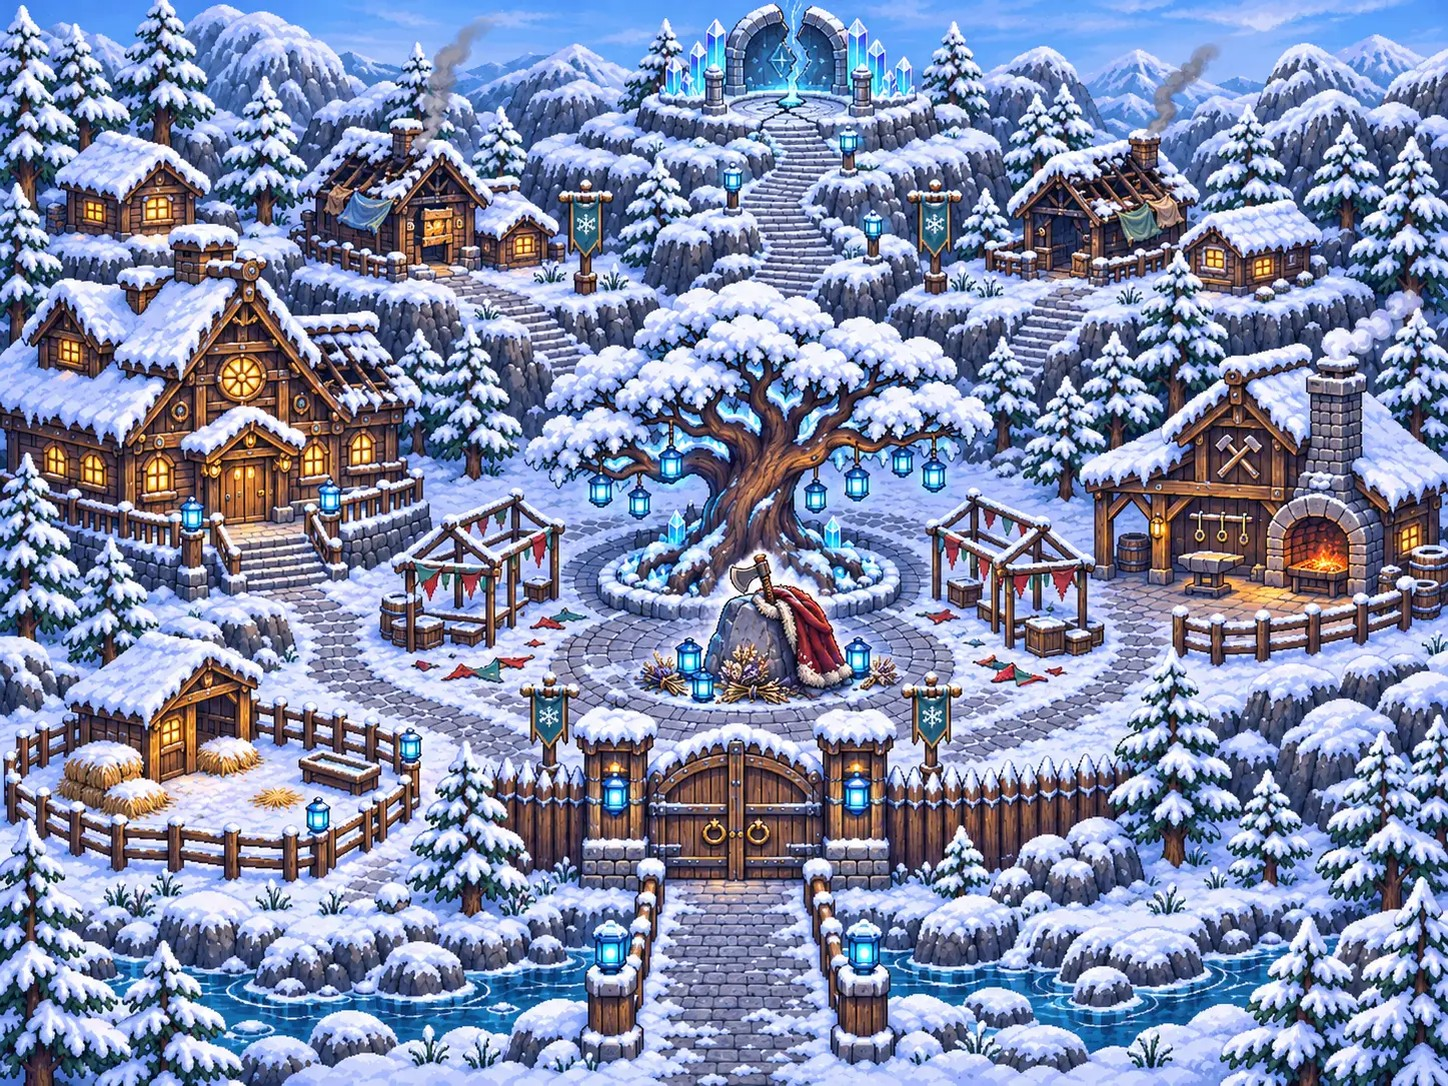
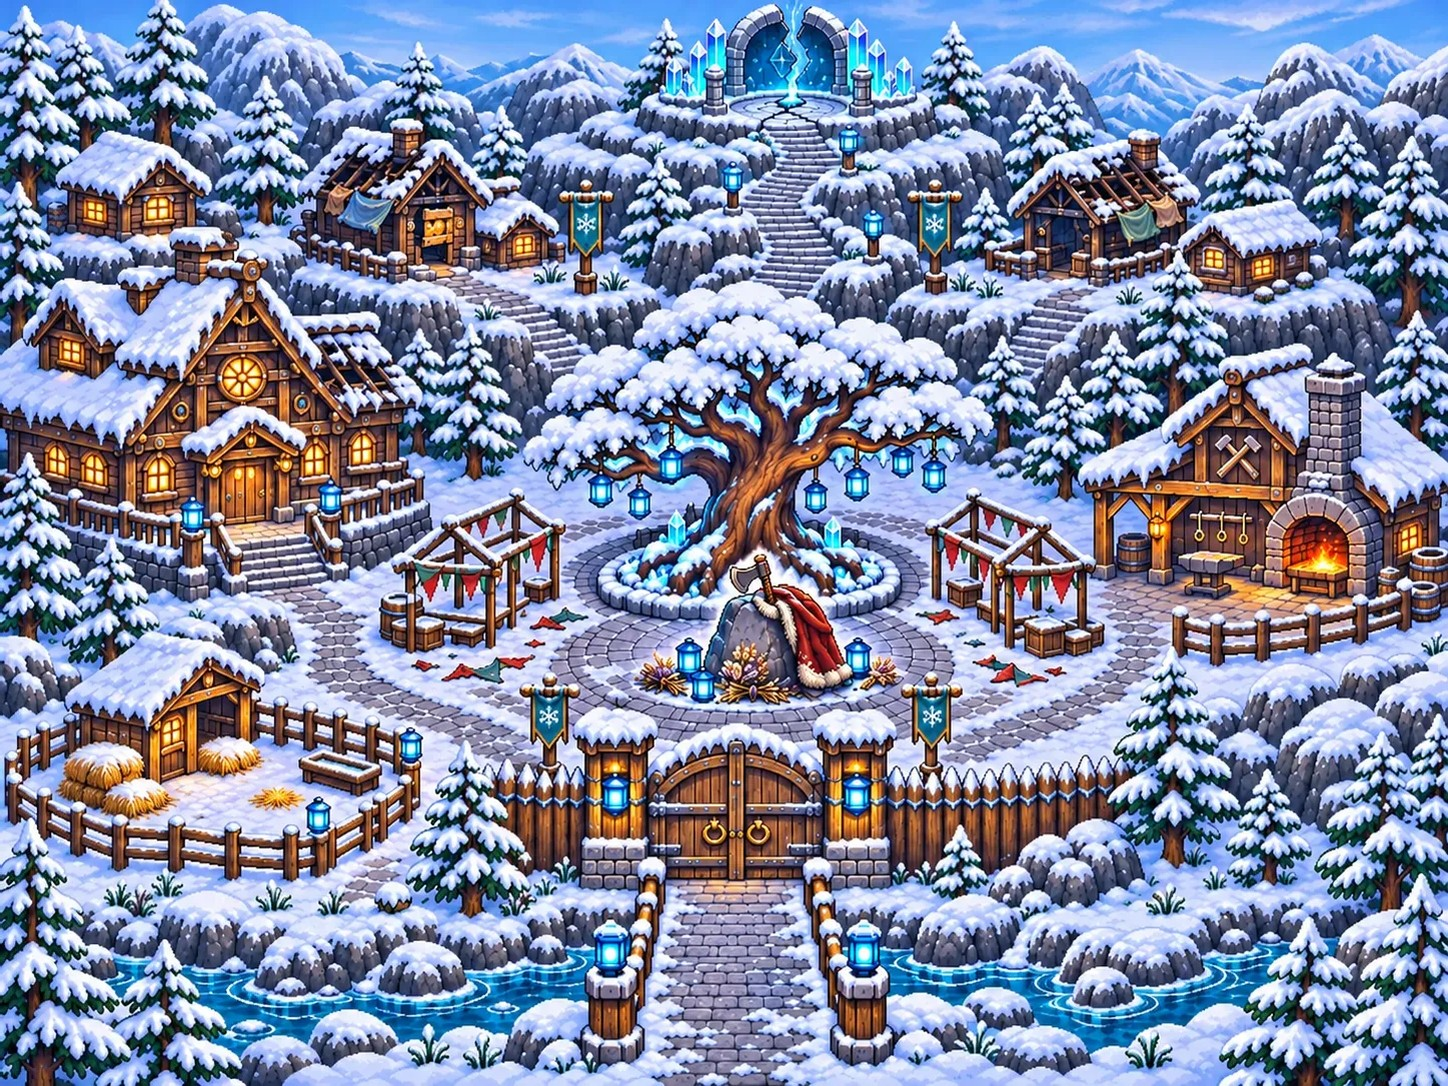
Sir Bacon fica no chiqueiro depois do Cap. 2; mapa da manha sem fumaca pintada

diff --git a/vila_motor.js b/vila_motor.js
@@ -91,7 +91,7 @@ function aplicaManha(){if(manhaAplicada)return;manhaAplicada=true;festAplicado=f
   MAPA_MANHA.onload=()=>{MAPA.src=MAPA_MANHA.src;
     for(const f of FR){const c=document.createElement('canvas');c.width=f.w;c.height=f.h;const g=c.getContext('2d');
       const faz=()=>{g.clearRect(0,0,f.w,f.h);g.drawImage(f.i0||f.i,0,0,f.w,f.h);g.globalCompositeOperation='source-in';g.drawImage(MAPA_MANHA,f.x,f.y,f.w,f.h,0,0,f.w,f.h);g.globalCompositeOperation='source-over';f.i0=f.i0||f.i;f.i=c;};
-      if((f.i0||f.i).complete)faz();else (f.i0||f.i).addEventListener('load',faz,{once:true});}};MAPA_MANHA.src='assets/vila/mapa_manha.jpg';}
+      if((f.i0||f.i).complete)faz();else (f.i0||f.i).addEventListener('load',faz,{once:true});}};MAPA_MANHA.src='assets/vila/mapa_manha.jpg?v=2';}
 // os passos da Parte E, na ordem: adeus -> lanterna -> cristais -> partida
 const PART_PASSOS=['adeus','lanterna','cristais','partida'];
 const partFeito=k=>!!((JOGO.cap2&&JOGO.cap2.e)||{})[k];
@@ -394,7 +394,8 @@ let oincT=rnd(2,5);
 function oinc(v){const dh=Math.hypot(hero.x-bacon.x,hero.y-bacon.y);som(OINC[(Math.random()*OINC.length)|0],clamp(1-dh/220,0,1)*(v||.7));}
 function baconPasso(dt){
   if(!BAC)return;
-  if(JOGO.cap2&&JOGO.cap2.baconTime&&!bacon.segue){bacon.segue=true;bacon.vaiSeguir=0;bacon.x=hero.x-40;bacon.y=hero.y+6;bacon.pts=[];}   // fim do Cap. 2: o Sir Bacon segue o time
+  // (2026-11-21, pedido: 'nao e para o porco ficar me seguindo'): depois do fim do Cap. 2 ele fica no chiqueiro, como antes
+  if(bacon.segue&&!bacon.vaiSeguir){bacon.segue=false;bacon.x=250;bacon.y=800;bacon.pts=[];}
   oincT-=dt;if(oincT<=0){oincT=bacon.acao==='dorme'?rnd(6,10):rnd(3,8);oinc(bacon.acao==='dorme'?.25:.6);}
   // trilha do Jux (a cada 3 px, e todo quadro durante o pulo)
   const u=trilha[trilha.length-1];
@@ -1156,7 +1157,7 @@ function nomePonto(id){if(NOMES[id])return NOMES[id];if(id.startsWith('tes_')){c
   if(id.startsWith('col_')){const c=COLETAS.find(q=>'col_'+q.id===id);return c?ITENS[c.item].nome:'Algo';}return '';}
 // quem tem corpo agora (so quem esta visivel no mapa): elipse nos pes; so bloqueia chegando MAIS perto (nunca prende o Jux)
 function corposNpc(){if(!NA_VILA)return [];if(emAtaque()){const L=(JOGO.cap2&&JOGO.cap2.lutas)||{},o=[vovo];if(L.atq_2)o.push(borin);for(const n of ANDARILHOS)if(ATQ_SALVO[n.id]&&L[ATQ_SALVO[n.id]])o.push(n);return o;}
-  const o=[tico,vovo,borin,...ANDARILHOS,...FIGURANTES];if(!(JOGO.cap2&&JOGO.cap2.baconTime))o.push(bacon);return o.filter(n=>n&&isFinite(n.x));}
+  const o=[tico,vovo,borin,...ANDARILHOS,...FIGURANTES];o.push(bacon);return o.filter(n=>n&&isFinite(n.x));}
 function npcBloqueia(x,y,x0,y0){for(const n of corposNpc()){const rx=n===bacon?11:8,ry=5,d=((x-n.x)/rx)**2+((y-n.y)/ry)**2;
   if(d<1&&d<((x0-n.x)/rx)**2+((y0-n.y)/ry)**2)return n;}return null;}
 function pontoPerto(){atqPontosPasso();MEMORIAL.r=emManha()?40:0;let m=null,md=1e9;for(const p of V.pontos){if(emAtaque()&&!atqPode(p.id))continue;const d=Math.hypot(hero.x-p.x,hero.y-p.y);if(d<p.r&&d<md){m=p;md=d;}}return m;}
@@ -1414,7 +1415,7 @@ const IMG_ADEUS=imgsFilme(CENAS_ADEUS.map(imgPart)),IMG_CRISTAIS=imgsFilme(CENAS
 function manhaSeguinte(){noiteFade={t:0,virou:false,txt:'Na manhã seguinte…',vira:()=>{JOGO.cap2.fase='manha';JOGO.cap2.e={};salvaJogo();aplicaManha();hero.x=722;hero.y=716;hero.olha='cima';},
   fim:()=>abreFala('manha_chega')};hero.alvo=null;hero.pontoAlvo=null;}
 function fimCapitulo2(){noiteFade={t:0,virou:false,k:1.8,txt:'Fim do Capítulo 2 — O festival da Rainha do Inverno',txt2:'Capítulo 3: em breve',vira:()=>{JOGO.cap2.fase='fim';JOGO.cap2.baconTime=true;salvaJogo();
-    bacon.segue=true;bacon.vaiSeguir=0;bacon.x=hero.x-40;bacon.y=hero.y+6;bacon.pts=[];hero.x=722;hero.y=700;hero.olha='baixo';},fim:()=>aviso('O Sir Bacon agora segue o time. Obrigado por jogar o Capítulo 2!','#ffe27a')};}
+    hero.x=722;hero.y=700;hero.olha='baixo';},fim:()=>aviso('Obrigado por jogar o Capítulo 2!','#ffe27a')};}
 // a lanterna do Tico: no alto do altar, depois do adeus
 function ticoAltar(){fala={linhas:FALAS.manha_tico_altar,i:0,letras:0,fim:()=>{daItem('lanterna_halvard',1);partMarca('lanterna');aviso('Você recebeu a Lanterna do Halvard! (acessório)','#9fe8ff');}};hero.alvo=null;hero.pontoAlvo=null;som(SOM.ui_vez,.5);}
 // o altar na vila em ataque: com as 3 lutas feitas (e o Capitulo 1 completo), a cutscene e a luta; depois de perder, so a luta

diff --git a/pico.html b/pico.html
@@ -53,7 +53,7 @@ canvas{width:min(100vw,177.78vh);height:auto;aspect-ratio:16/9;touch-action:none
 <script src="vila_retratos.js?v=1795117438"></script>
 <script src="vila_npc_halvard.js?v=1795117438"></script>
 <script src="vila_npc_bino.js?v=1795117438"></script>
-<script src="vila_motor.js?v=1795249000"></script>
+<script src="vila_motor.js?v=1795249400"></script>
 <script src="tela_cheia.js?v=1795247600"></script>
 </body>
 </html>

diff --git a/trilha.html b/trilha.html
@@ -48,7 +48,7 @@ canvas{width:min(100vw,177.78vh);height:auto;aspect-ratio:16/9;touch-action:none
 <script src="vila_retratos.js?v=1795117438"></script>
 <script src="vila_npc_halvard.js?v=1795117438"></script>
 <script src="vila_npc_bino.js?v=1795117438"></script>
-<script src="vila_motor.js?v=1795249000"></script>
+<script src="vila_motor.js?v=1795249400"></script>
 <script src="tela_cheia.js?v=1795247600"></script>
 </body>
 </html>

diff --git a/vale.html b/vale.html
@@ -49,7 +49,7 @@ canvas{width:min(100vw,177.78vh);height:auto;aspect-ratio:16/9;touch-action:none
 <script src="vila_retratos.js?v=1795117438"></script>
 <script src="vila_npc_halvard.js?v=1795117438"></script>
 <script src="vila_npc_bino.js?v=1795117438"></script>
-<script src="vila_motor.js?v=1795249000"></script>
+<script src="vila_motor.js?v=1795249400"></script>
 <script src="tela_cheia.js?v=1795247600"></script>
 </body>
 </html>

diff --git a/garganta.html b/garganta.html
@@ -54,7 +54,7 @@ canvas{width:min(100vw,177.78vh);height:auto;aspect-ratio:16/9;touch-action:none
 <script src="garganta_bandeira.js?v=1795117438"></script>
 <script src="vila_fogo.js?v=1795117438"></script>
 <script src="vida_garganta.js?v=1795117438"></script>
-<script src="vila_motor.js?v=1795249000"></script>
+<script src="vila_motor.js?v=1795249400"></script>
 <script src="tela_cheia.js?v=1795247600"></script>
 </body>
 </html>

diff --git a/vila.html b/vila.html
@@ -66,7 +66,7 @@ canvas{width:min(100vw,177.78vh);height:auto;aspect-ratio:16/9;touch-action:none
 <script src="vila_preparo.js?v=1795227700"></script>
 <script src="inimigos_sprites.js?v=1795243000"></script>
 <script src="vila_ataque.js?v=1795240000"></script>
-<script src="vila_motor.js?v=1795249000"></script>
+<script src="vila_motor.js?v=1795249400"></script>
 <script src="tela_cheia.js?v=1795247600"></script>
 </body>
 </html>

diff --git a/caverna.html b/caverna.html
@@ -51,7 +51,7 @@ canvas{width:min(100vw,177.78vh);height:auto;aspect-ratio:16/9;touch-action:none
 <script src="lamina_acesa.js?v=1795117438"></script>
 <script src="fx_mapa.js?v=1795117438"></script>
 <script src="vida_garganta.js?v=1795117438"></script>
-<script src="vila_motor.js?v=1795249000"></script>
+<script src="vila_motor.js?v=1795249400"></script>
 <script src="tela_cheia.js?v=1795247600"></script>
 </body>
 </html>
